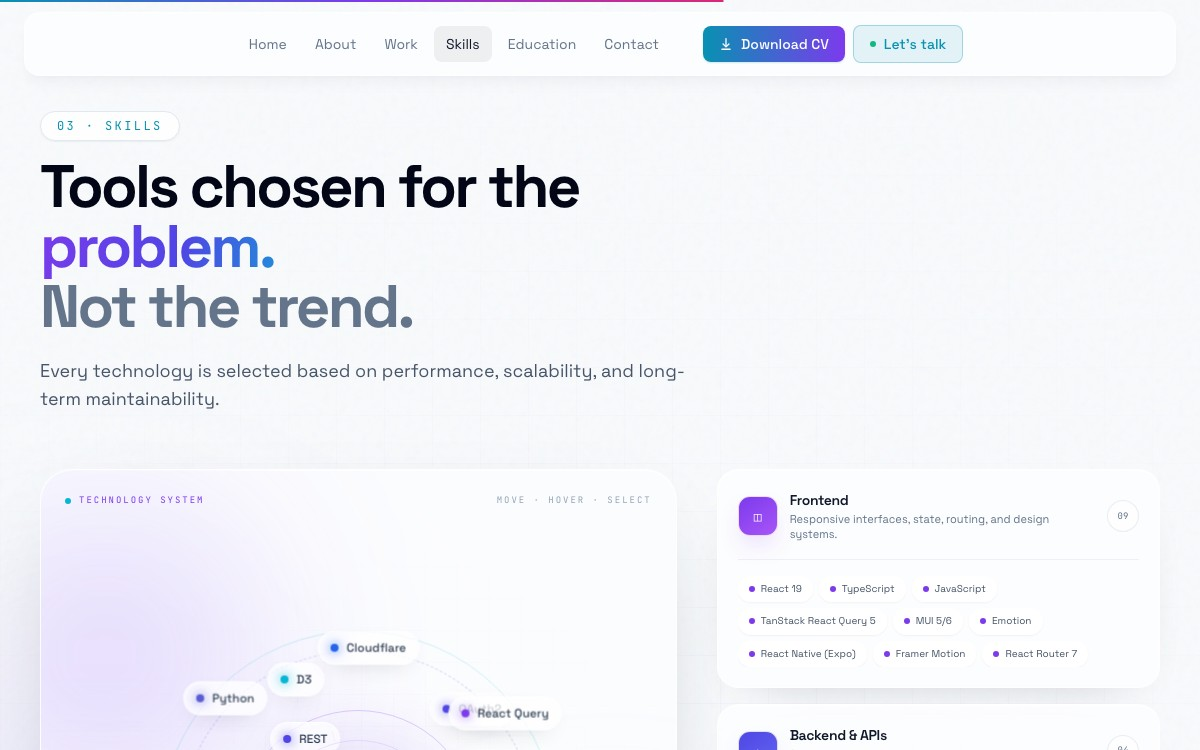
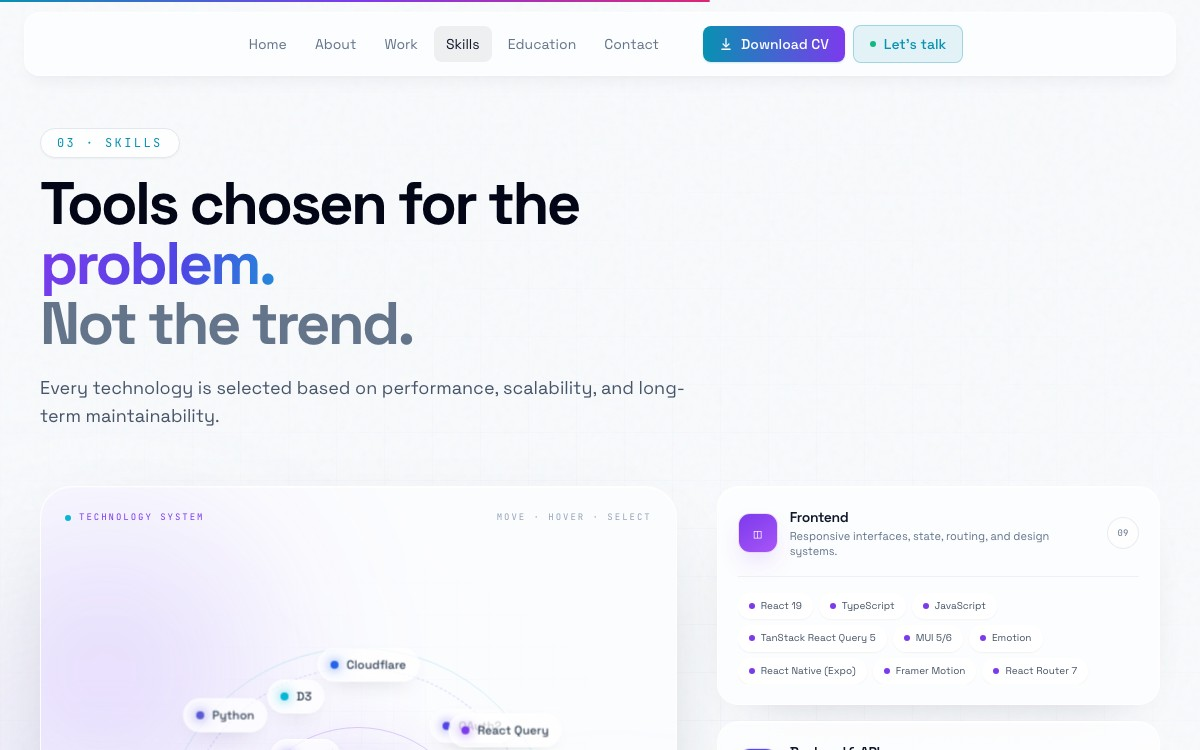
Refine Apple-style mobile spacing

diff --git a/src/index.css b/src/index.css
@@ -351,6 +351,15 @@ body {
 }
 
 @media (max-width: 767px) {
+  :root {
+    --mobile-gutter: 1.25rem;
+    --mobile-section-space: 4.5rem;
+  }
+
+  html {
+    scroll-padding-top: 4.5rem;
+  }
+
   body {
     background:
       radial-gradient(circle at 50% 2%, rgba(255, 255, 255, 0.98), transparent 30rem),
@@ -359,8 +368,8 @@ body {
   }
 
   .site-grid {
-    background-size: 32px 32px;
-    opacity: 0.38;
+    background-size: 36px 36px;
+    opacity: 0.22;
   }
 
   .hero-noise {
@@ -368,17 +377,28 @@ body {
   }
 
   .section-pad {
-    padding: 5rem 1.25rem;
+    padding: var(--mobile-section-space) var(--mobile-gutter);
+  }
+
+  #home {
+    min-height: max(48rem, 100svh);
+  }
+
+  .skills-showcase {
+    padding-block: var(--mobile-section-space);
   }
 
   .glass {
     border-color: rgba(255, 255, 255, 0.92);
     background: rgba(255, 255, 255, 0.74);
-    box-shadow: 0 24px 60px -38px rgba(15, 23, 42, 0.34);
+    box-shadow:
+      inset 0 1px 0 rgba(255, 255, 255, 0.82),
+      0 22px 56px -38px rgba(15, 23, 42, 0.3);
     backdrop-filter: blur(24px) saturate(145%);
   }
 
   .eyebrow {
+    margin-bottom: 1.25rem;
     border-color: rgba(255, 255, 255, 0.95);
     background: rgba(255, 255, 255, 0.76);
     box-shadow: 0 8px 30px -22px rgba(15, 23, 42, 0.45);
@@ -387,6 +407,7 @@ body {
 
   .mobile-nav-shell {
     padding-top: max(0.75rem, env(safe-area-inset-top));
+    padding-right: max(0rem, env(safe-area-inset-right));
   }
 
   .mobile-nav-pill {
@@ -397,6 +418,9 @@ body {
   }
 
   .mobile-menu-sheet {
+    margin-inline: var(--mobile-gutter);
+    border-radius: 1.75rem;
+    padding: 0.75rem;
     box-shadow: 0 28px 70px -35px rgba(15, 23, 42, 0.5);
   }
 
@@ -408,6 +432,7 @@ body {
 
   .mobile-hero-copy {
     margin-inline: auto;
+    padding-top: max(5.5rem, calc(env(safe-area-inset-top) + 4.5rem));
   }
 
   .mobile-stat {
@@ -431,8 +456,52 @@ body {
   #skills h2,
   #education h2,
   #contact h2 {
+    font-size: clamp(2rem, 8.7vw, 2.35rem);
     letter-spacing: -0.035em;
     line-height: 1.06;
+  }
+
+  #about > div,
+  #experience > div,
+  #education > div {
+    min-width: 0;
+  }
+
+  #about .glass,
+  #experience .glass,
+  #education .glass,
+  #contact .glass,
+  .skills-category-card,
+  .skills-orbit-stage {
+    border-radius: 1.75rem;
+  }
+
+  #about p,
+  #experience p,
+  #education p,
+  #contact p {
+    line-height: 1.62;
+  }
+
+  #experience .depth-card > div,
+  #education .depth-card > div {
+    min-width: 0;
+  }
+
+  #experience [class*="min-h-[290px]"] {
+    min-height: 15rem;
+  }
+
+  #contact > div > div {
+    border-radius: 2rem;
+  }
+
+  .skills-orbit-stage {
+    min-height: 27rem;
+  }
+
+  .skills-category-card {
+    padding: 1rem;
   }
 
   #about .depth-card,

diff --git a/src/components/Experience.tsx b/src/components/Experience.tsx
@@ -182,20 +182,20 @@ export default function Experience() {
         </div>
       </Reveal>
 
-      <div className="mt-14 space-y-8">
+      <div className="mt-10 space-y-6 md:mt-14 md:space-y-8">
         {caseStudies.map((project, index) => (
           <Reveal key={project.number} delay={index * 0.06}>
-            <DepthCard className="glass rounded-[2rem] p-3 md:p-5">
+            <DepthCard className="glass rounded-[2rem] p-2.5 md:p-5">
               <article className={`grid items-stretch gap-7 lg:grid-cols-2 ${index % 2 ? "" : ""}`}>
                 <div className={`flex flex-col p-4 md:p-6 ${index % 2 ? "lg:order-2" : ""}`}>
                   <div className="flex items-center gap-3 font-mono text-[10px] uppercase tracking-[0.18em] text-accent">
                     <span className="grid h-8 w-8 place-items-center rounded-full border border-accent/20 bg-accent/[0.06]">{project.number}</span>
                     {project.category}
                   </div>
-                  <h3 className="mt-7 text-3xl font-semibold tracking-tight text-slate-900 md:text-4xl">{project.title}</h3>
-                  <p className="mt-4 leading-relaxed text-slate-600">{project.summary}</p>
-                  <div className="mt-5 border-l-2 border-accent2/30 pl-4 text-sm leading-relaxed text-slate-500">{project.contribution}</div>
-                  <div className="mt-7 grid grid-cols-2 gap-3">
+                  <h3 className="mt-5 text-2xl font-semibold tracking-tight text-slate-900 md:mt-7 md:text-4xl">{project.title}</h3>
+                  <p className="mt-3 leading-relaxed text-slate-600 md:mt-4">{project.summary}</p>
+                  <div className="mt-4 border-l-2 border-accent2/30 pl-4 text-sm leading-relaxed text-slate-500 md:mt-5">{project.contribution}</div>
+                  <div className="mt-5 grid grid-cols-2 gap-2.5 md:mt-7 md:gap-3">
                     {project.impact.map((metric) => (
                       <div key={metric.label} className="rounded-xl border border-slate-200/70 bg-white/60 px-4 py-3">
                         <div className="text-lg font-semibold gradient-text">{metric.value}</div>
@@ -203,7 +203,7 @@ export default function Experience() {
                       </div>
                     ))}
                   </div>
-                  <div className="mt-6 flex flex-wrap gap-2">
+                  <div className="mt-5 flex flex-wrap gap-2 md:mt-6">
                     {project.tech.map((tech) => (
                       <span key={tech} className="rounded-full bg-slate-900/[0.05] px-3 py-1 font-mono text-[10px] text-slate-600">{tech}</span>
                     ))}
@@ -218,7 +218,7 @@ export default function Experience() {
         ))}
       </div>
 
-      <Reveal className="mt-24">
+      <Reveal className="mt-16 md:mt-24">
         <div className="mb-8 flex items-end justify-between gap-4">
           <div>
             <span className="font-mono text-[10px] uppercase tracking-[0.2em] text-accent">Career timeline</span>
@@ -227,15 +227,15 @@ export default function Experience() {
           <span className="hidden font-mono text-[10px] uppercase tracking-wider text-slate-400 md:block">Dubai · 2023—Now</span>
         </div>
       </Reveal>
-      <div className="grid gap-4 lg:grid-cols-3">
+      <div className="grid gap-3 md:gap-4 lg:grid-cols-3">
         {experiences.map((experience, index) => (
           <Reveal key={experience.company} delay={index * 0.06}>
-            <DepthCard className="glass h-full rounded-2xl p-6">
+            <DepthCard className="glass h-full rounded-2xl p-5 md:p-6">
               <div className="flex items-center justify-between">
                 <span className="font-mono text-[10px] text-accent">0{index + 1}</span>
                 <span className="font-mono text-[10px] text-slate-400">{experience.period}</span>
               </div>
-              <h4 className="mt-8 text-lg font-semibold leading-snug text-slate-900">{experience.company}</h4>
+              <h4 className="mt-6 text-lg font-semibold leading-snug text-slate-900 md:mt-8">{experience.company}</h4>
               <p className="mt-1 text-xs text-accent2">{experience.role}</p>
               <p className="mt-5 text-sm leading-relaxed text-slate-500">{careerNotes[experience.company]}</p>
               {experience.recognition && (

diff --git a/src/components/Contact.tsx b/src/components/Contact.tsx
@@ -34,7 +34,7 @@ export default function Contact() {
   return (
     <section id="contact" className="section-pad">
       <Reveal>
-        <div className="glass relative isolate overflow-hidden rounded-3xl p-8 md:p-14">
+        <div className="glass relative isolate overflow-hidden rounded-3xl p-6 md:p-14">
           <ContactAtmosphere />
           <div className="pointer-events-none absolute -right-20 -top-20 z-[1] h-64 w-64 rounded-full bg-accent/20 blur-3xl" />
           <div className="pointer-events-none absolute -bottom-24 -left-16 z-[1] h-64 w-64 rounded-full bg-accent2/20 blur-3xl" />
@@ -49,17 +49,17 @@ export default function Contact() {
               collaborations. The fastest way to reach me is email.
             </p>
 
-            <div className="mt-8 flex flex-wrap gap-3">
+            <div className="mt-7 grid grid-cols-2 gap-2.5 sm:flex sm:flex-wrap sm:gap-3 md:mt-8">
             <a
               href={`mailto:${profile.email}`}
-              className="inline-flex items-center gap-2 rounded-xl bg-gradient-to-r from-accent to-accent2 px-6 py-3 font-medium text-white shadow-lg shadow-accent/20 transition-transform hover:scale-[1.03]"
+              className="inline-flex items-center justify-center gap-2 rounded-xl bg-gradient-to-r from-accent to-accent2 px-5 py-3 font-medium text-white shadow-lg shadow-accent/20 transition-transform hover:scale-[1.03] md:px-6"
             >
               Say hello →
             </a>
             <button
               type="button"
               onClick={copyEmail}
-              className="inline-flex items-center gap-2 rounded-xl border border-slate-300 bg-white/60 px-6 py-3 font-medium text-slate-700 backdrop-blur transition-colors hover:border-accent/30 hover:bg-white"
+              className="inline-flex items-center justify-center gap-2 rounded-xl border border-slate-300 bg-white/60 px-5 py-3 font-medium text-slate-700 backdrop-blur transition-colors hover:border-accent/30 hover:bg-white md:px-6"
             >
               {copied ? "Copied!" : "Copy email"}
               <span aria-hidden="true">{copied ? "✓" : "⌘"}</span>
@@ -69,7 +69,7 @@ export default function Contact() {
             </span>
             </div>
 
-            <div className="mt-10 grid gap-px overflow-hidden rounded-2xl border border-slate-200 bg-slate-200 sm:grid-cols-2">
+            <div className="mt-8 grid gap-px overflow-hidden rounded-2xl border border-slate-200 bg-slate-200 sm:mt-10 sm:grid-cols-2">
               {links.map((l) => (
                 <a
                   key={l.label}

diff --git a/src/components/About.tsx b/src/components/About.tsx
@@ -43,11 +43,11 @@ export default function About() {
         </Reveal>
       </div>
 
-      <div className="mt-12 grid gap-4 md:grid-cols-3">
+      <div className="mt-10 grid gap-3 md:mt-12 md:grid-cols-3 md:gap-4">
           {highlights.map((h, i) => (
             <Reveal key={h.title} delay={0.1 + i * 0.08}>
-              <DepthCard className="glass group h-full rounded-2xl p-6">
-                <div className="mb-8 font-mono text-xs text-accent">
+              <DepthCard className="glass group h-full rounded-2xl p-5 md:p-6">
+                <div className="mb-6 font-mono text-xs text-accent md:mb-8">
                   0{i + 1}
                 </div>
                 <h3 className="text-lg font-semibold text-slate-900">
@@ -61,7 +61,7 @@ export default function About() {
           ))}
       </div>
 
-      <Reveal className="mt-8" delay={0.15}>
+      <Reveal className="mt-6 md:mt-8" delay={0.15}>
         <div className="rounded-2xl border border-slate-200/70 bg-white/40 p-5 backdrop-blur md:p-6">
           <div className="grid gap-5 sm:grid-cols-4">
             {["Understand", "Architect", "Ship", "Improve"].map((step, index) => (

diff --git a/src/components/Education.tsx b/src/components/Education.tsx
@@ -14,9 +14,9 @@ export default function Education() {
         </h2>
       </Reveal>
 
-      <div className="mt-12 grid gap-6 lg:grid-cols-3">
+      <div className="mt-10 grid gap-4 md:mt-12 md:gap-6 lg:grid-cols-3">
         <Reveal>
-          <DepthCard className="glass h-full rounded-2xl p-6">
+          <DepthCard className="glass h-full rounded-2xl p-5 md:p-6">
             <h3 className="mb-5 font-mono text-xs uppercase tracking-wider text-accent">
               Education
             </h3>
@@ -37,7 +37,7 @@ export default function Education() {
         </Reveal>
 
         <Reveal delay={0.08}>
-          <DepthCard className="glass h-full rounded-2xl p-6">
+          <DepthCard className="glass h-full rounded-2xl p-5 md:p-6">
             <h3 className="mb-5 font-mono text-xs uppercase tracking-wider text-accent">
               Professional Development
             </h3>
@@ -60,7 +60,7 @@ export default function Education() {
         </Reveal>
 
         <Reveal delay={0.16}>
-          <DepthCard className="glass h-full rounded-2xl p-6">
+          <DepthCard className="glass h-full rounded-2xl p-5 md:p-6">
             <h3 className="mb-5 font-mono text-xs uppercase tracking-wider text-accent">
               Volunteering
             </h3>